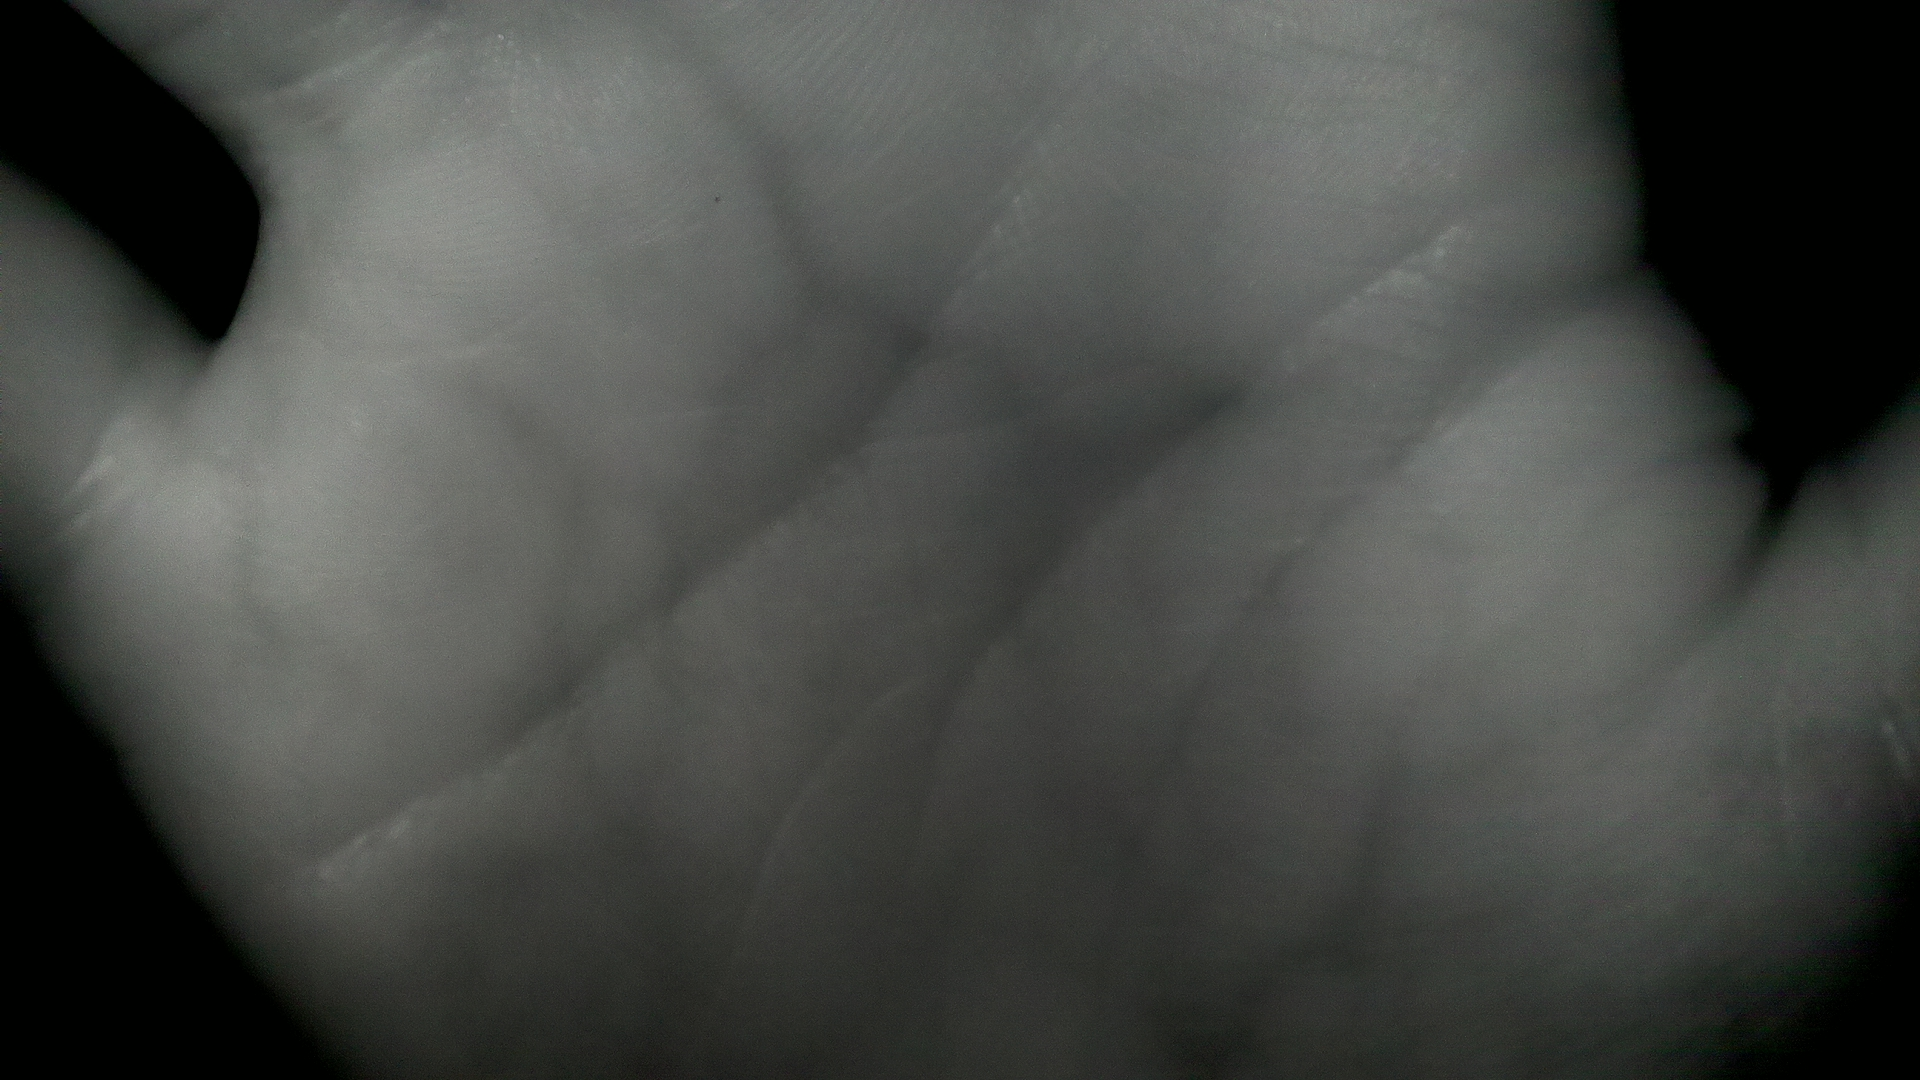
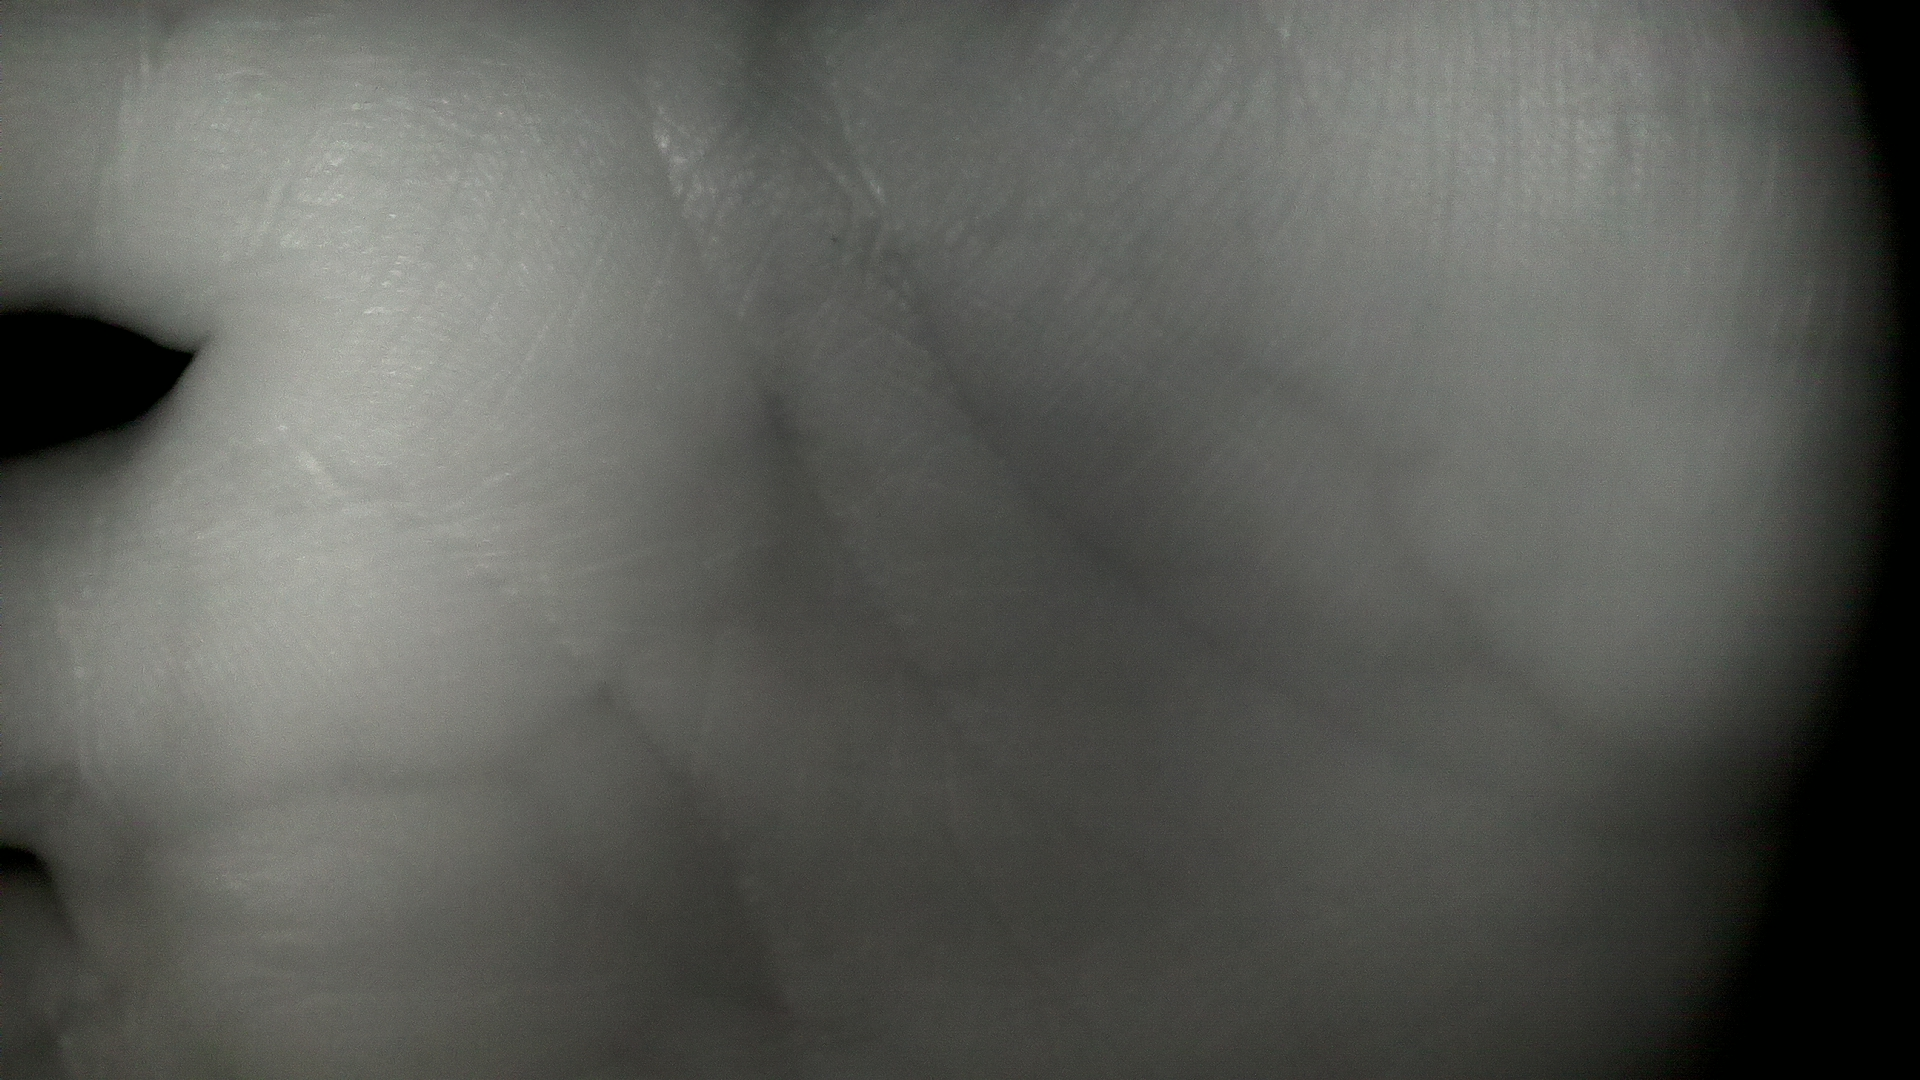
18:38

diff --git a/Ocvpydeneme.py b/Ocvpydeneme.py
@@ -7,15 +7,16 @@ camera=picamera.PiCamera()
 camera.resolution = (1920, 1080)
 camera.contrast=100
 camera.sharpness=100
-#camera.capture('denemedamar.jpg')
+camera.capture('denemedamar.jpg')
 img=cv2.imread('denemedamar.jpg')
-#img=cv2.cvtColor(img,cv2.COLOR_RGB2GRAY)
-#cv2.imwrite("graydenemedamar.png",img)
-#equ=cv2.equalizeHist(img)
-#cv2.imwrite('graywhist.png',equ)
-#clahe=cv2.createCLAHE(clipLimit=2.0,tileGridSize=(8,8))
-#cl1=clahe.apply(img)
-#cv2.imwrite('clahevein.png',cl1)
+img=cv2.cvtColor(img,cv2.COLOR_RGB2GRAY)
+cv2.imwrite("graydenemedamar.png",img)
+#
+equ=cv2.equalizeHist(img)
+cv2.imwrite('graywhist.png',equ)
+clahe=cv2.createCLAHE(clipLimit=4.0,tileGridSize=(8,8))
+cl1=clahe.apply(img)
+cv2.imwrite('clahevein.png',cl1)
 bnw=cv2.imread('clahevein.png',cv2.IMREAD_GRAYSCALE)
 (thresh,imbw)=cv2.threshold(bnw,45,255,cv2.THRESH_BINARY_INV)
 cv2.imwrite('bwdeneme.png',imbw)
